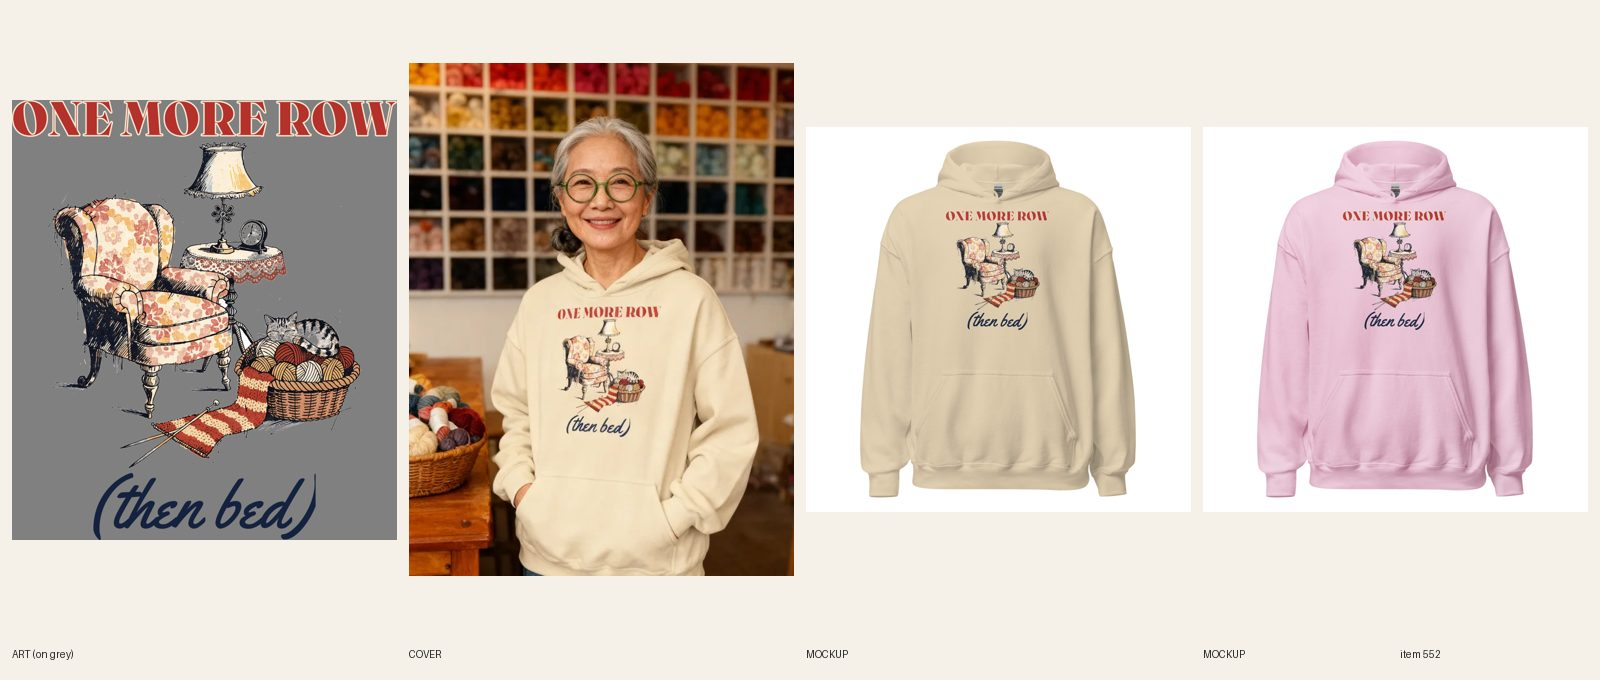
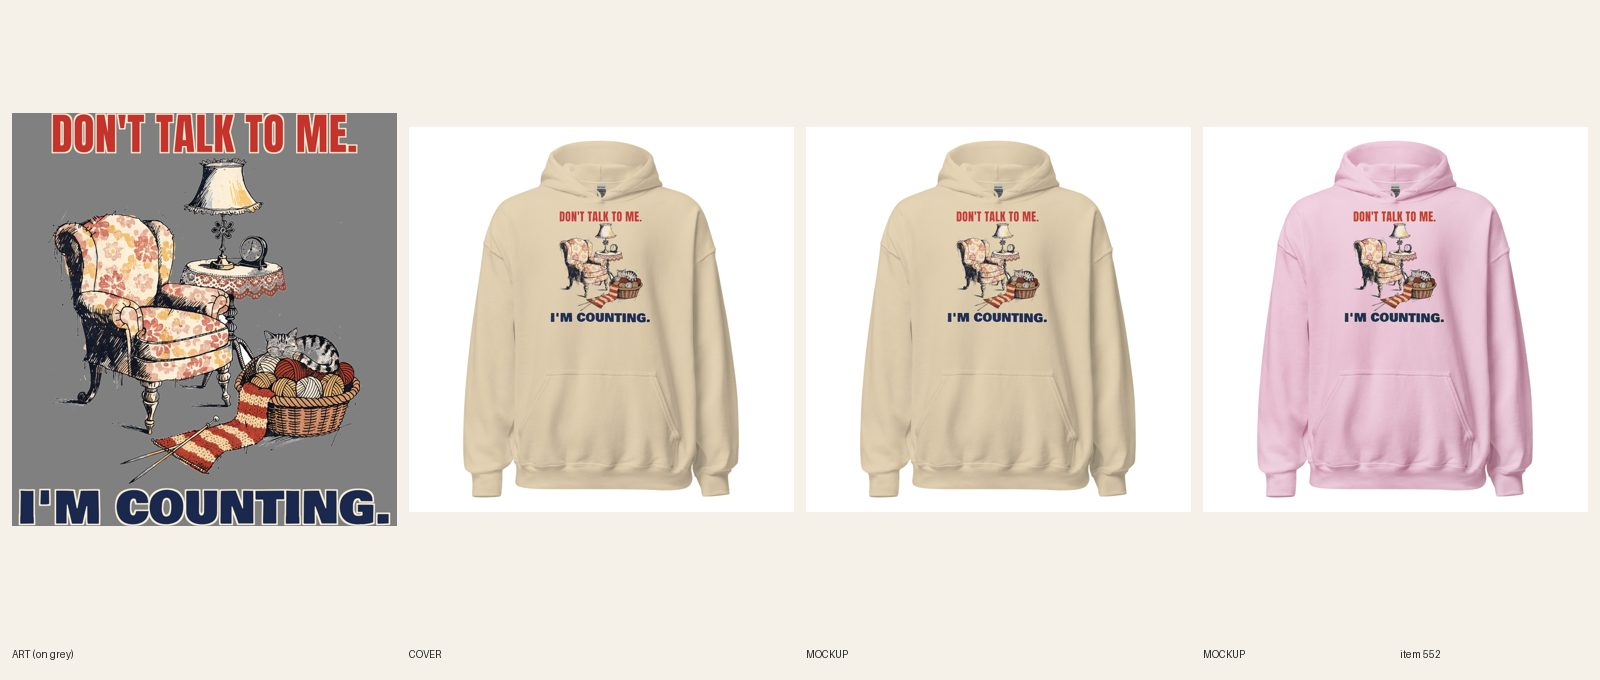
[C] review 552 I'm Counting knitting hoodie (line + type redo)
Claude-Session: https://claude.ai/code/session_01CCHcDj8LcJJ8qUPtKE3cvn

Changed region(s): [[0.0, 0.0926, 0.5, 0.8647], [0.5938, 0.3088, 0.6562, 0.4941], [0.8438, 0.3088, 0.9062, 0.4941]]

diff --git a/scripts/c-redo.py b/scripts/c-redo.py
@@ -1,0 +1,31 @@
+#!/usr/bin/env python3
+"""c-redo.py <dir> <sync_product_id> <catalog_id> <FW> <TOP> Color=print.png [Color=print.png ...]   (lane C pullover/crewneck redo)
+Hosts each print on fal, uploads to Printful, starts the paced setfile per color in the background (<dir>/sync_<Color>.log),
+then makes one front mockup per color (<dir>/mock_<Color>.json) and downloads <dir>/m_<Color>.jpg. Color 'ALL' links every variant.
+A Color may be 'A+B' to take several colors from one file (mockup is made for each)."""
+import shlex, os, sys, json, subprocess, time, urllib.request
+from PIL import Image
+d, pid, cat, fw, top = sys.argv[1:6]; pairs = [a.split('=', 1) for a in sys.argv[6:]]
+H = {'Authorization': 'Bearer ' + os.environ['PRINTFUL_TOKEN'], 'User-Agent': 'gtc'}
+def get(p): return json.load(urllib.request.urlopen(urllib.request.Request('https://api.printful.com' + p, headers=H), timeout=60))['result']
+vs = get(f'/sync/products/{pid}')['sync_variants']; env = dict(os.environ, FW=fw, TOP=top, FORCE='1'); info = {}
+for colors, png in pairs:
+    url = subprocess.check_output([sys.executable, 'scripts/fal-host.py', png], text=True).strip()
+    fid = subprocess.check_output([sys.executable, 'scripts/pf-sync.py', 'upload', url, os.path.basename(png)], text=True).strip()
+    for _ in range(30):
+        f = get(f'/files/{fid}')
+        if f.get('width') and f.get('status') == 'ok': break
+        time.sleep(4)
+    info[colors] = (fid, f['width'], f['height'], f['url']); print(colors, fid, f['width'], f['height'], flush=True)
+    open(f'{d}/fid_{colors}', 'w').write(fid)
+cmds = []
+for colors, (fid, w, h, u) in info.items():
+    for c in colors.split('+'):
+        cmds.append(f"ONLY={shlex.quote('/ ' + c + ' /')} {sys.executable} scripts/pf-sync.py setfile {pid} {fid} > {shlex.quote(d + '/sync_' + c + '.log')} 2>&1")
+subprocess.Popen(['bash', '-c', ' ; '.join(cmds)], env=env, start_new_session=True, stdout=subprocess.DEVNULL, stderr=subprocess.DEVNULL)
+for colors, (fid, w, h, u) in info.items():
+    for c in colors.split('+'):
+        v = next(v for v in vs if f' / {c} / M' in v['name'] or f' / {c} / L' in v['name'])
+        subprocess.run([sys.executable, 'scripts/pf-mockup.py', cat, u, str(w), str(h), '-', str(v['variant_id']), f'{d}/mock_{c}.json'], env=env, check=True, stdout=subprocess.DEVNULL)
+        m = json.load(open(f'{d}/mock_{c}.json'))[str(v['variant_id'])]; url = m['front:main']
+        open(f'{d}/m_{c}.jpg', 'wb').write(urllib.request.urlopen(url).read()); open(f'{d}/murl_{c}.txt', 'w').write(url); print(c, 'MOCKUP', url, flush=True)

diff --git a/designs/c552/make.py b/designs/c552/make.py
@@ -1,0 +1,30 @@
+from PIL import Image, ImageDraw, ImageFont, ImageFilter
+FD='designs/fonts/'
+RED=(196,52,44,255); NAVY=(27,40,78,255); CREAM=(246,236,214,255); BROWN=(58,36,24,255)
+def line(text,font,wfrac,W,fill,key,kw=31,track=0):
+    f=ImageFont.truetype(FD+font,800); adv=[f.getlength(c) for c in text]
+    tot=sum(adv)+track*(len(text)-1); size=int(800*W*wfrac/tot)
+    f=ImageFont.truetype(FD+font,size); adv=[f.getlength(c) for c in text]; tr=int(track*size/800)
+    asc,desc=f.getmetrics(); tot=int(sum(adv)+tr*(len(text)-1))
+    pad=80; im=Image.new('RGBA',(tot+2*pad,asc+desc+2*pad),(0,0,0,0))
+    def draw(layer,col):
+        d=ImageDraw.Draw(layer); x=pad
+        for c,a in zip(text,adv): d.text((x,pad),c,font=f,fill=col); x+=a+tr
+    k=Image.new('L',im.size,0); d=ImageDraw.Draw(k); x=pad
+    for c,a in zip(text,adv): d.text((x,pad),c,font=f,fill=255); x+=a+tr
+    k=k.filter(ImageFilter.MaxFilter(kw)); im.paste(Image.new('RGBA',im.size,key),(0,0),k)
+    draw(im,fill)
+    return im.crop(im.getbbox())
+src=Image.open('docs/print-files/552-one-more-row-hoodie.png').convert('RGBA')
+W=src.width; art=src.crop((0,371,W,3303))
+h1=line("DON'T TALK TO ME.",'Anton-Regular.ttf',0.80,W,RED,CREAM,kw=25,track=14)
+h2=line("I'M COUNTING.",'BowlbyOne-Regular.ttf',0.97,W,NAVY,CREAM,kw=29)
+print('h1',h1.size,'h2',h2.size,'ratio h2/h1',h2.height/h1.height)
+g=34; H=h1.height+g+art.height+g+h2.height
+out=Image.new('RGBA',(W,H),(0,0,0,0))
+out.alpha_composite(h1,((W-h1.width)//2,0)); y=h1.height+g
+out.alpha_composite(art,(0,y)); y+=art.height+g
+out.alpha_composite(h2,((W-h2.width)//2,y))
+out.save('docs/print-files/552-v2-counting.png'); print(out.size,H/W)
+for n,c in (('sand',(214,196,160,255)),('pink',(244,214,222,255))):
+    bg=Image.new('RGBA',out.size,c); bg.alpha_composite(out); bg.convert('RGB').resize((600,int(600*H/W))).save(f'designs/c552/prev_{n}.png')

diff --git a/scripts/c-finish.py b/scripts/c-finish.py
@@ -1,0 +1,12 @@
+#!/usr/bin/env python3
+"""c-finish.py <id> <sync_pid> <art.png> <cover_or_mockup> <mockup2> <pipeline_log_text> <intake_text>
+Verifies every synced variant has one front file, makes the review sheet, sets status REVIEW, appends the logs, inserts the intake line under the lane C lock."""
+import os, sys, json, glob, subprocess, urllib.request
+i, pid, art, m1, m2, plog, itxt = sys.argv[1:8]
+r = json.load(urllib.request.urlopen(urllib.request.Request(f'https://api.printful.com/sync/products/{pid}', headers={'Authorization': 'Bearer ' + os.environ['PRINTFUL_TOKEN'], 'User-Agent': 'gtc'}), timeout=60))['result']
+s = {tuple(sorted((f['type'], f['id']) for f in v['files'] if f['type'] in ('front', 'default', 'back'))) for v in r['sync_variants']}
+print('distinct file sets:', s, 'variants', len(r['sync_variants']), 'synced', r['sync_product']['synced'])
+subprocess.run([sys.executable, 'scripts/review-sheet.py', i, art, m1, m1, m2], check=True)
+f = glob.glob(f'docs/pipeline/{i}-*.md')[0]; L = open(f).read().split('\n'); L[0] = 'status: REVIEW'
+open(f, 'w').write('\n'.join(L).rstrip('\n') + '\n- ' + plog + '\n')
+p = 'docs/intake-log.md'; L = open(p).read().split('\n'); k = next(n for n, l in enumerate(L) if l.startswith('RUNNING lane C')); L.insert(k + 1, itxt); open(p, 'w').write('\n'.join(L))

diff --git a/docs/pipeline/552-knitting-hoodie-one-more-row.md b/docs/pipeline/552-knitting-hoodie-one-more-row.md
@@ -1,4 +1,4 @@
-status: REDO
+status: REVIEW
 lane: C
 type: twin
 id: 552
@@ -27,3 +27,4 @@ kd: 14
 - 2026-10-18 04:07 UTC builder [C]: resumed after container loss; Printful sync completed 12/12, audit clean except not-active. REVIEW.
 - 2026-10-18 04:20 UTC director: LIVE. FW 1500, (then bed) reads; woman 60s cover in a yarn shop, hood visible. ACTIVE, published. Audit PASS.
 - 2026-10-18 17:22 UTC director: QUALITY RESET grade C (new line + type), REDO. The product stays ACTIVE (same handle, URL, title keyword). 1. Line (R3.12, quality-reset 'Lines'): "ONE MORE ROW / (then bed)": Noun + mild aside; knitter cliche, no surprise. Thin navy script second line too. Write 5 candidates, keep the one a stranger laughs at in 3 seconds without backstory; kill lines that only describe the picture; if none of the 5 is funny, PARK it. 2. Quality reset type bar (docs/backlog/quality-reset.md, 'The new bar'): headline at least 90% of the art width, heavy, colors pulled from the art; second line at least 45% of the headline's height, never a thin script on a dark or mid garment; use the lettering as a shape (arch, stacked lockup, words breaking into the art), not a plain bar above and a script line below; no font used on more than 1 in 6 of the last 30 designs. 3. Keep the art if it carries the new line, else one new illustration (R4/R5). New print means a new cover per R6.10, copy line one rewritten for the new joke (R8.3), and a fresh review sheet (R7.7). While quality-reset.md says PAUSED, only lane A builds, and only the samples step 2 names.
+- 2026-10-20 05:00 UTC builder [C]: REDO new line + type (grade C). 5 candidates: "DON'T TALK TO ME. / I'M COUNTING." (kept: every knitter's real warning), "ONE MORE ROW. / FAMOUS LAST WORDS.", "STITCH, PLEASE." (crowded on Etsy), "THE SCARF CAN WAIT. I CAN'T.", "CAST ON. CHECK OUT.". Same armchair/cat/scarf art. DON'T TALK TO ME. in Anton, 80% of the art width, red with cream keyline; I'M COUNTING. in Bowlby One, 97% width, navy with cream keyline (second line is 93% of the first's height). Sand and Light Pink are both light, no cream fills, one file serves both (logged: no light file needed). Print docs/print-files/552-v2-counting.png 3453 x 3705, file 1090141621, FW 1500 TOP 0, 12/12 relinked. Both front mockups replaced in place, read at phone size. Copy line one and SEO rewritten for the new joke; keyword knitter hoodie kept. Plain product shot (cover on hold). fal $0.

diff --git a/docs/intake-log.md b/docs/intake-log.md
@@ -5,6 +5,7 @@ RUNNING lane B since 2026-10-20 03:28 UTC
 2026-10-20 03:41 UTC — [B] Builder run: redid #362 Women's Baseball hoodie (line + type: MISSED THE PLAY. / SEEDS WERE GOOD., same art, Bowlby One, Navy + Sand light files, 12/12 synced). REVIEW. fal $0.
 2026-10-20 05:26 UTC — [E] Builder run: redid #388 Women's Christmas crewneck (line + type: SORRY, I'M BOOKED TILL JANUARY., new party-calendar art, Navy + Sand files, 12/12 synced, copy updated, plain product shot). REVIEW. fal $0.08.
 RUNNING lane C since 2026-10-20 03:23 UTC
+2026-10-20 05:02 UTC — [C] Builder run: redid #552 Women's Knitting hoodie (new line + type: DON'T TALK TO ME. / I'M COUNTING., Anton + Bowlby One, same armchair art, file 1090141621, FW 1500 TOP 0, 12/12 relinked, 2 fronts replaced in place, copy + SEO updated, plain product shot). REVIEW. fal $0.
 2026-10-20 04:32 UTC — [C] Builder run: redid #554 Men's Grandpa I Fix Things After Naps hoodie (new line + type: I'M FIXING IT. / EYES CLOSED. STILL WORKING., Bevan + Anton full width, same recliner art, file 1090139027, FW 1500 TOP 0, 12/12 relinked, 2 fronts replaced in place, copy + SEO updated, plain product shot). REVIEW. fal $0.
 2026-10-20 03:52 UTC — [C] Builder run: redid #635 Women's Fishing Out-Fished Him. Again. zip hoodie (type only: AGAIN. in Bowlby One heavy, navy on Ash / cream+red keyline on Navy, same art, back files 1090135325 / 1090135337, 12/12 relinked, 2 back mockups replaced in place, copy updated, plain product shot). REVIEW. fal $0.
 2026-10-20 03:20 UTC — [D] Director run: 6 LIVE (#548 #578 #618 #336 #414 #474, audit PASS each), 7 new redos approved and held (#205 #217 #219 #326 #356 #358 #650), 2 REDO (#216 line + shape, #507 R4.1 panel edges), lane E refilled to 12 READY with briefs #704–#710 (crop top hoodie, knitting sweatshirt, knitting shirt, mtb shirt, bouldering shirt, skiing shirt, climbing shirt). Inbox: nothing new. No digest (not due). Lock released.
